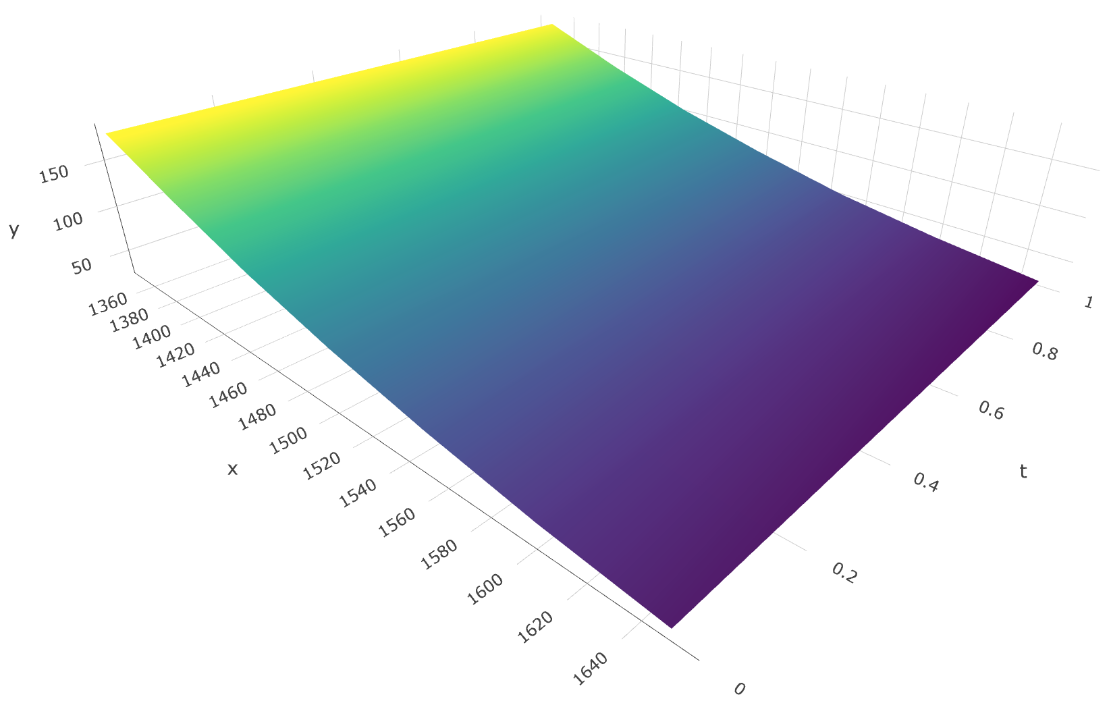
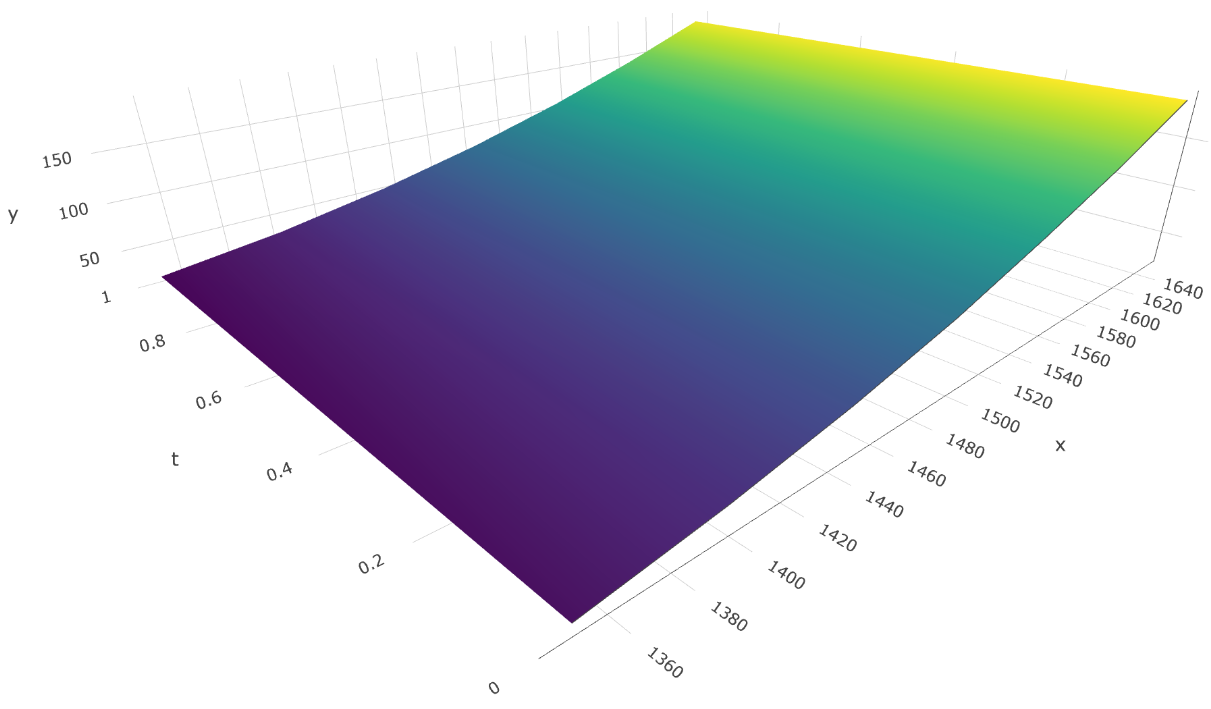
Updating 2021-03-06-a-linear-interpolation-based-liquidity-pool.md

diff --git a/_posts/2021-03-06-a-linear-interpolation-based-liquidity-pool.md b/_posts/2021-03-06-a-linear-interpolation-based-liquidity-pool.md
@@ -101,14 +101,14 @@ x = [1350, 1400, 1450, 1500, 1550, 1600, 1650];
 
 y = [
      // option price points for "t0" (US$)
-    183, 147, 114, 87, 65, 47, 34,
+    27, 42, 62, 87, 118, 152, 191,
     
     // option price points for "t1" (US$)
-    179, 141, 108, 81, 58, 41, 28
+    22, 36, 56, 81, 111, 146, 185
 ];
 ```
 
-This example snippet results in the pricing surface plotted below:
+This example snippet defines price points for a hypothetical ETH call option with strike price of US$ 1.500 and an interpolation period starting at 7 days to maturity and ending at 6 days to maturity, resulting in the pricing surface plotted below:
 
 <p align="center">
   <img style="max-width: 100%; max-height: 360px; margin: 10px 0" src="{{ site.baseurl }}/images/p26/surface.PNG" alt="surface"/>
